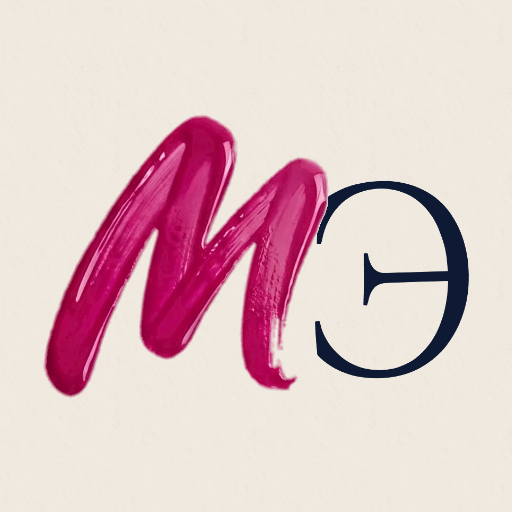
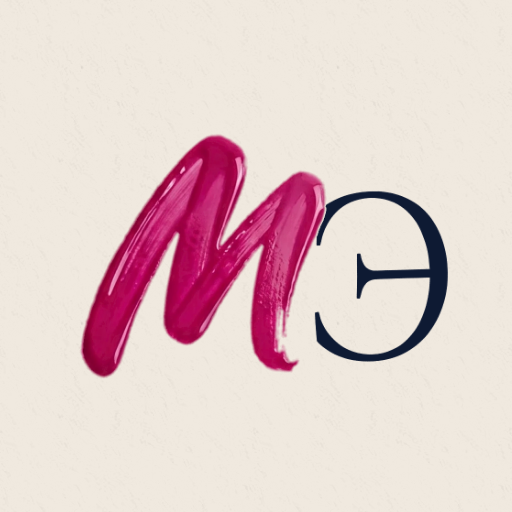
Живые анимации: капля лака при нажатии, брызги при успехах, мазок под словами, прогресс, наклоны, курсор, смена темы; оптический центр значка
Claude-Session: https://claude.ai/code/session_01NzJw3LZqVkXEfVDdRwKfeH

Changed region(s): [[0.0625, 0.2188, 0.9375, 0.7812]]

diff --git a/v2/js/fx.js b/v2/js/fx.js
@@ -1,0 +1,81 @@
+/* Живые анимации: капли лака, прогресс, наклоны, магнитные кнопки, курсор, брызги при успехах. Только transform/opacity. */
+(function () {
+  var A = window.A, D = document, W = window;
+  var RM = W.matchMedia('(prefers-reduced-motion: reduce)').matches;
+  var FINE = W.matchMedia('(hover: hover) and (pointer: fine)').matches;
+  var LAK = ['#D21C7C', '#E8489B', '#FFBEED', '#B0005C'];
+
+  /* ---------- брызги лака (успех) ---------- */
+  A.burst = function (x, y, n) {
+    if (RM) return;
+    if (x == null) { x = innerWidth / 2; y = innerHeight / 2; }
+    var box = D.createElement('div'); box.className = 'fx-burst'; box.style.left = x + 'px'; box.style.top = y + 'px';
+    n = n || 18;
+    for (var i = 0; i < n; i++) {
+      var p = D.createElement('i'), a = Math.random() * Math.PI * 2, r = 60 + Math.random() * 120, s = .5 + Math.random() * .9;
+      p.style.setProperty('--x', Math.cos(a) * r + 'px'); p.style.setProperty('--y', Math.sin(a) * r - 40 + 'px');
+      p.style.setProperty('--r', (Math.random() * 360) + 'deg'); p.style.setProperty('--s', s);
+      p.style.background = LAK[i % LAK.length]; p.style.animationDelay = (Math.random() * 80) + 'ms';
+      box.appendChild(p);
+    }
+    D.body.appendChild(box); setTimeout(function () { box.remove(); }, 1400);
+  };
+  A.burstAt = function (el) { if (!el) return A.burst(); var r = el.getBoundingClientRect(); A.burst(r.left + r.width / 2, r.top + r.height / 2); };
+
+  if (RM) return;
+
+  /* ---------- капля лака в точке касания ---------- */
+  D.addEventListener('click', function (e) {
+    if (e.button > 0 || !e.clientX && !e.clientY || e.target.closest('input,textarea,select,.lb,.kanban .lcd')) return;
+    var d = D.createElement('div'); d.className = 'fx-drop'; d.style.left = e.clientX + 'px'; d.style.top = e.clientY + 'px';
+    for (var i = 0; i < 5; i++) { var s = D.createElement('i'), a = (i / 5) * Math.PI * 2 + Math.random(); s.style.setProperty('--x', Math.cos(a) * 26 + 'px'); s.style.setProperty('--y', Math.sin(a) * 26 + 'px'); d.appendChild(s); }
+    D.body.appendChild(d); setTimeout(function () { d.remove(); }, 700);
+  });
+
+  /* ---------- прогресс прокрутки + наклон бегущих лент от скорости ---------- */
+  var bar = D.createElement('div'); bar.className = 'fx-progress'; D.body.appendChild(bar);
+  var lastY = scrollY, vel = 0, tick = false;
+  function frame() {
+    tick = false;
+    var h = D.documentElement.scrollHeight - innerHeight;
+    bar.style.transform = 'scaleX(' + (h > 0 ? Math.min(1, scrollY / h) : 0) + ')';
+    var dy = scrollY - lastY; lastY = scrollY; vel = vel * .8 + dy * .2;
+    var sk = Math.max(-8, Math.min(8, vel * .35));
+    D.documentElement.style.setProperty('--sk', sk.toFixed(2) + 'deg');
+    if (Math.abs(vel) > .1) { tick = true; requestAnimationFrame(frame); } else D.documentElement.style.setProperty('--sk', '0deg');
+  }
+  addEventListener('scroll', function () { if (!tick) { tick = true; requestAnimationFrame(frame); } }, { passive: true });
+
+  /* ---------- смена темы — круговое раскрытие от кнопки ---------- */
+  var tog = A.toggleTheme;
+  A.toggleTheme = function (e) {
+    var ev = W.event, x = ev && ev.clientX != null ? ev.clientX : innerWidth - 40, y = ev && ev.clientY != null ? ev.clientY : 40;
+    if (!D.startViewTransition) return tog();
+    D.documentElement.style.setProperty('--vx', x + 'px'); D.documentElement.style.setProperty('--vy', y + 'px');
+    D.documentElement.classList.add('vt-theme');
+    var t = D.startViewTransition(function () { var R = D.documentElement; R.dataset.theme = R.dataset.theme === 'dark' ? 'light' : 'dark'; try { localStorage.setItem('as-theme', R.dataset.theme); } catch (er) {} var m = D.querySelector('meta[name=theme-color]'); if (m) m.content = R.dataset.theme === 'dark' ? '#1E1D1F' : '#F0E9DF'; });
+    t.finished.then(function () { D.documentElement.classList.remove('vt-theme'); });
+  };
+
+  if (!FINE) return;
+
+  /* ---------- ПК: курсор-капля ---------- */
+  var cur = D.createElement('div'); cur.className = 'fx-cur'; cur.innerHTML = '<i></i><b></b>'; D.body.appendChild(cur);
+  var cx = -100, cy = -100, rx = -100, ry = -100;
+  addEventListener('pointermove', function (e) { cx = e.clientX; cy = e.clientY; cur.classList.toggle('hot', !!e.target.closest('a,button,label,[data-zoom],.ph img,.lcd,summary')); }, { passive: true });
+  addEventListener('pointerdown', function () { cur.classList.add('down'); }); addEventListener('pointerup', function () { cur.classList.remove('down'); });
+  D.addEventListener('mouseleave', function () { cur.style.opacity = 0; }); D.addEventListener('mouseenter', function () { cur.style.opacity = 1; });
+  (function loop() { rx += (cx - rx) * .2; ry += (cy - ry) * .2; cur.firstChild.style.transform = 'translate(' + cx + 'px,' + cy + 'px)'; cur.lastChild.style.transform = 'translate(' + rx + 'px,' + ry + 'px)'; requestAnimationFrame(loop); })();
+
+  /* ---------- ПК: магнитные кнопки и 3D-наклон карточек ---------- */
+  D.addEventListener('pointermove', function (e) {
+    var b = e.target.closest('.btn:not(.btn--wide)');
+    if (b) { var r = b.getBoundingClientRect(); b.style.translate = ((e.clientX - r.left - r.width / 2) * .18).toFixed(1) + 'px ' + ((e.clientY - r.top - r.height / 2) * .25).toFixed(1) + 'px'; b._m = 1; }
+    var c = e.target.closest('.cc,.lcard,.dcard,.svc button,.kpi');
+    if (c) { var q = c.getBoundingClientRect(), px = (e.clientX - q.left) / q.width - .5, py = (e.clientY - q.top) / q.height - .5; c.style.transform = 'perspective(900px) rotateY(' + (px * 6).toFixed(2) + 'deg) rotateX(' + (-py * 6).toFixed(2) + 'deg) translateY(-4px)'; c.style.setProperty('--gx', (px + .5) * 100 + '%'); c.style.setProperty('--gy', (py + .5) * 100 + '%'); c.classList.add('fx-tilt'); }
+  }, { passive: true });
+  D.addEventListener('pointerout', function (e) {
+    var b = e.target.closest('.btn'); if (b && !b.contains(e.relatedTarget)) b.style.translate = '';
+    var c = e.target.closest('.cc,.lcard,.dcard,.svc button,.kpi'); if (c && !c.contains(e.relatedTarget)) { c.style.transform = ''; c.classList.remove('fx-tilt'); }
+  }, { passive: true });
+})();

diff --git a/v2/app.css b/v2/app.css
@@ -688,3 +688,55 @@ body.app .ck{bottom:calc(96px + env(safe-area-inset-bottom))!important}
 .mnav a[aria-current]:not(.btn){color:var(--lak);font-style:italic}
 .nav a[aria-current]{color:var(--lak)}
 :root[data-theme=dark]{--lak:#F0469B}
+.brand__sq .lgo__mk{transform:translateX(2%)}
+
+/* ===== живые анимации ===== */
+/* капля лака в точке касания */
+.fx-drop{position:fixed;z-index:600;width:0;height:0;pointer-events:none}
+.fx-drop::before{content:"";position:absolute;left:-18px;top:-18px;width:36px;height:36px;border-radius:50%;border:2px solid var(--lak);animation:fxring .6s var(--ease) forwards}
+.fx-drop::after{content:"";position:absolute;left:-5px;top:-5px;width:10px;height:10px;border-radius:50% 50% 50% 50%/60% 60% 40% 40%;background:radial-gradient(circle at 35% 30%,#fff 0 18%,var(--lak) 22%);animation:fxdot .55s var(--ease) forwards}
+.fx-drop i{position:absolute;left:-2.5px;top:-2.5px;width:5px;height:5px;border-radius:50%;background:var(--lak);animation:fxsp .55s var(--ease) forwards}
+@keyframes fxring{from{transform:scale(.2);opacity:.9}to{transform:scale(1.6);opacity:0}}
+@keyframes fxdot{0%{transform:scale(.4)}40%{transform:scale(1.25)}100%{transform:scale(0);opacity:0}}
+@keyframes fxsp{from{transform:translate(0,0) scale(1);opacity:1}to{transform:translate(var(--x),var(--y)) scale(.2);opacity:0}}
+/* брызги при успехе */
+.fx-burst{position:fixed;z-index:600;width:0;height:0;pointer-events:none}
+.fx-burst i{position:absolute;left:-6px;top:-9px;width:12px;height:18px;border-radius:50% 50% 42% 42%/64% 64% 36% 36%;opacity:0;animation:fxb 1.2s cubic-bezier(.15,.7,.3,1) forwards}
+@keyframes fxb{0%{opacity:1;transform:translate(0,0) rotate(0) scale(calc(var(--s)*.3))}70%{opacity:1}100%{opacity:0;transform:translate(var(--x),calc(var(--y) + 90px)) rotate(var(--r)) scale(var(--s))}}
+/* прогресс прокрутки */
+.fx-progress{position:fixed;left:0;right:0;top:0;height:3px;z-index:90;background:linear-gradient(90deg,var(--pink),var(--lak));transform-origin:left;transform:scaleX(0);pointer-events:none}
+body.app .fx-progress{display:none}
+/* мазок лака под розовыми словами заголовков */
+.h1 em,.h2 em{position:relative;z-index:0}
+.h1 em::after,.h2 em::after{content:"";position:absolute;z-index:-1;left:-.06em;right:-.04em;bottom:.08em;height:.2em;border-radius:.2em .3em .1em .25em;background:linear-gradient(90deg,color-mix(in srgb,var(--pink) 75%,transparent),color-mix(in srgb,var(--lak) 35%,transparent));transform:scaleX(0) skewX(-12deg);transform-origin:left;transition:transform .9s var(--ease) calc(var(--d,0ms) + .45s)}
+.in .h1 em::after,.in .h2 em::after,.ln.in em::after,.h1 .in em::after,.h2 .in em::after{transform:scaleX(1) skewX(-12deg)}
+.dark .h2 em::after,.stk:nth-child(3) .h2 em::after,.wine .h2 em::after,.foot em::after{opacity:.35}
+/* бегущие ленты наклоняются от скорости прокрутки */
+.marq__t,.tline span{transition:none}
+.marq,.tline{transform:skewX(calc(var(--sk,0deg) * -1));transition:transform .3s var(--ease)}
+/* фото «наезжают» при прокрутке (где браузер умеет scroll-driven анимации) */
+@supports (animation-timeline: view()){
+  .stk .ph img,.chero__img,.cc .ph{animation:fxin linear both;animation-timeline:view();animation-range:entry 0% cover 40%}
+  @keyframes fxin{from{transform:scale(1.14) translateY(5%);opacity:.4}to{transform:none;opacity:1}}
+}
+/* ПК: курсор-капля */
+.fx-cur{position:fixed;inset:0;z-index:650;pointer-events:none}
+.fx-cur i,.fx-cur b{position:fixed;left:0;top:0;border-radius:50%}
+.fx-cur i{width:8px;height:8px;margin:-4px 0 0 -4px;background:var(--lak)}
+.fx-cur b{width:34px;height:34px;margin:-17px 0 0 -17px;border:1.5px solid color-mix(in srgb,var(--lak) 60%,transparent);transition:width .3s var(--ease),height .3s var(--ease),margin .3s var(--ease),background-color .3s}
+.fx-cur.hot b{width:58px;height:58px;margin:-29px 0 0 -29px;background:color-mix(in srgb,var(--pink) 22%,transparent)}
+.fx-cur.down b{width:24px;height:24px;margin:-12px 0 0 -12px}
+@media (hover:hover) and (pointer:fine){html{cursor:auto}}
+/* ПК: магнитные кнопки и наклон карточек с бликом */
+.btn{transition:color .45s var(--ease),transform .4s var(--ease),translate .35s var(--ease)}
+.fx-tilt{transition:transform .25s ease-out!important;will-change:transform}
+.cc,.lcard,.dcard,.kpi,.svc button{transition:transform .6s var(--ease),box-shadow .6s var(--ease)}
+.fx-tilt::before{content:"";position:absolute;inset:0;z-index:3;pointer-events:none;border-radius:inherit;background:radial-gradient(circle at var(--gx) var(--gy),rgba(255,255,255,.28),transparent 45%)}
+.cc,.lcard,.dcard,.kpi{position:relative}
+/* смена темы — круговое раскрытие */
+.vt-theme::view-transition-old(root),.vt-theme::view-transition-new(root){animation:none;mix-blend-mode:normal}
+.vt-theme::view-transition-new(root){animation:vtc .7s var(--ease)}
+@keyframes vtc{from{clip-path:circle(0 at var(--vx) var(--vy))}to{clip-path:circle(150% at var(--vx) var(--vy))}}
+/* нажатие — мягкий «пружинный» отклик */
+.les button:active:not(:disabled),.tcs button:active,.file:active,.sso__b:active,.opts button:active{transform:scale(.98)}
+@media (prefers-reduced-motion:reduce){.fx-progress,.fx-cur{display:none}.h1 em::after,.h2 em::after{transform:scaleX(1) skewX(-12deg)}}

diff --git a/v2/js/cabinets.js b/v2/js/cabinets.js
@@ -93,13 +93,13 @@
         var pb = v.querySelector('#plb'); pb.onclick = function () { v.querySelector('#pl').classList.add('is-on'); A.toast('Здесь будет видео урока — защищённое от скачивания'); };
         v.querySelectorAll('[data-tc]').forEach(function (b) { b.onclick = function () { v.querySelector('#pl').scrollIntoView({ behavior: 'smooth', block: 'center' }); A.toast('Видео перемотается на ' + b.dataset.tc); }; });
         var f = v.querySelector('#hwF'); if (f) f.onchange = function () { [].slice.call(f.files, 0, 4 - tmp.length).forEach(function (file) { A.compress(file, 1280, function (u) { tmp.push(u); v.querySelector('#hwP').innerHTML = tmp.map(function (s) { return '<img src="' + s + '" alt="">'; }).join(''); }); }); };
-        var s = v.querySelector('#hwS'); if (s) s.onclick = function () { var t = v.querySelector('#hwT').value.trim(); if (!t && !tmp.length) { A.toast('Добавьте фото или напишите ответ'); return; } S().prog[i] = { st: 'sent', text: t, photos: tmp, at: Date.now() }; A.save(); A.toast('Отправлено Алине на проверку'); A.rerender(); };
+        var s = v.querySelector('#hwS'); if (s) s.onclick = function () { var t = v.querySelector('#hwT').value.trim(); if (!t && !tmp.length) { A.toast('Добавьте фото или напишите ответ'); return; } S().prog[i] = { st: 'sent', text: t, photos: tmp, at: Date.now() }; A.save(); A.burstAt(s); A.toast('Отправлено Алине на проверку'); A.rerender(); };
         var qz = v.querySelector('#qz'); if (qz) qz.onsubmit = function (e) { e.preventDefault(); var miss = 0, sc = 0;
           l.quiz.forEach(function (q, qi) { var ch = qz.querySelector('input[name=q' + qi + ']:checked'); var fs = qz.querySelectorAll('fieldset')[qi]; fs.classList.remove('ok', 'bad'); if (!ch) { miss++; return; } var ok = +ch.value === q.ok; if (ok) sc++; fs.classList.add(ok ? 'ok' : 'bad'); });
           if (miss) { A.toast('Ответьте на все вопросы'); return; }
-          if (sc >= Math.ceil(l.quiz.length * 2 / 3)) { S().prog[i] = { st: 'passed', score: sc, at: Date.now() }; A.save(); A.toast('Тест пройден: ' + sc + ' из ' + l.quiz.length + ' — следующий урок открыт'); setTimeout(A.rerender, 900); }
+          if (sc >= Math.ceil(l.quiz.length * 2 / 3)) { S().prog[i] = { st: 'passed', score: sc, at: Date.now() }; A.save(); A.burstAt(qz.querySelector('.btn')); A.toast('Тест пройден: ' + sc + ' из ' + l.quiz.length + ' — следующий урок открыт'); setTimeout(A.rerender, 900); }
           else A.toast('Верно ' + sc + ' из ' + l.quiz.length + ' — пересмотрите урок и попробуйте ещё раз'); };
-        var d = v.querySelector('#lesD'); if (d) d.onclick = function () { S().prog[i] = { st: 'done', at: Date.now() }; A.save(); A.toast('Урок изучен — следующий открыт'); A.rerender(); };
+        var d = v.querySelector('#lesD'); if (d) d.onclick = function () { S().prog[i] = { st: 'done', at: Date.now() }; A.burstAt(d); A.save(); A.toast('Урок изучен — следующий открыт'); A.rerender(); };
       } };
     } else if (sub === 'chat') {
       S().seen.s = Date.now(); A.save(); body = chat('s');
@@ -165,7 +165,7 @@
         v.addEventListener('click', function (e) { var b = e.target.closest('[data-ok],[data-back]'); if (!b) return; var k = +(b.dataset.ok || b.dataset.back), it = q[k], ok = !!b.dataset.ok, cm = v.querySelector('#cm' + k).value.trim();
           if (!ok && !cm) { A.toast('Напишите, что исправить'); return; }
           if (it.me) { it.p.st = ok ? 'ok' : 'back'; it.p.comment = cm || 'Отличная работа! Следующий урок открыт.'; } else { it.o.hw = null; if (ok) it.o.done++; }
-          A.save(); A.toast(ok ? 'Принято — у ученицы открылся следующий урок' : 'Возвращено с комментарием'); A.rerender(); });
+          A.save(); if (ok) A.burstAt(b); A.toast(ok ? 'Принято — у ученицы открылся следующий урок' : 'Возвращено с комментарием'); A.rerender(); });
       } };
     } else if (sub === 'kursy') {
       var cid = arg[1] || 'mani', cc = A.course(cid) || A.course('mani'), CL = A.lessons(cc), MM = A.modules(cc);

diff --git a/v2/js/pages.js b/v2/js/pages.js
@@ -178,7 +178,7 @@
             if (!p.querySelector('#pc').checked) { A.toast('Нужно согласие с офертой и на обработку данных'); return; }
             var name = p.querySelector('#pn').value || 'Новая ученица', sum = c.f === 'online' ? c.p : Math.round(c.p / 3);
             A.S.leads.unshift({ id: 'l' + Date.now(), name: name, phone: '', email: em, stage: c.f === 'online' ? 'study' : 'pay', course: c.id, src: 'Сайт', sum: c.p, note: c.f === 'online' ? 'Оплатила онлайн' : 'Внесла предоплату', at: Date.now(), hist: [{ t: Date.now(), x: 'Покупка на сайте: ' + A.rub(sum) }] });
-            A.S.pay.push({ t: Date.now(), sum: sum }); A.save(); A.closeSheet(); A.toast(c.f === 'online' ? 'Оплачено (демо) — доступ в личном кабинете' : 'Предоплата получена (демо) — Алина свяжется');
+            A.S.pay.push({ t: Date.now(), sum: sum }); A.save(); A.closeSheet(); A.burst(); A.toast(c.f === 'online' ? 'Оплачено (демо) — доступ в личном кабинете' : 'Предоплата получена (демо) — Алина свяжется');
           };
         }); }
   });

diff --git a/v2/index.html b/v2/index.html
@@ -38,6 +38,6 @@
 <div class="sheet" id="sheet" role="dialog" aria-modal="true"><div class="sheet__p"></div></div>
 <div class="ck" id="ck" hidden><p>Мы используем файлы cookie и похожие технологии, чтобы сайт работал корректно. Подробнее — в <a href="#/dokumenty/politika">политике конфиденциальности</a>.</p><button class="btn btn--sm" id="ckok">Хорошо</button></div>
 <div class="toast" id="toast" role="status" aria-live="polite"></div>
-<script src="js/data.js"></script><script src="js/program.js"></script><script src="js/docs.js"></script><script src="js/core.js"></script><script src="js/pages.js"></script><script src="js/cabinets.js"></script>
+<script src="js/data.js"></script><script src="js/program.js"></script><script src="js/docs.js"></script><script src="js/core.js"></script><script src="js/pages.js"></script><script src="js/cabinets.js"></script><script src="js/fx.js"></script>
 <script>A.start()</script>
 </body></html>
